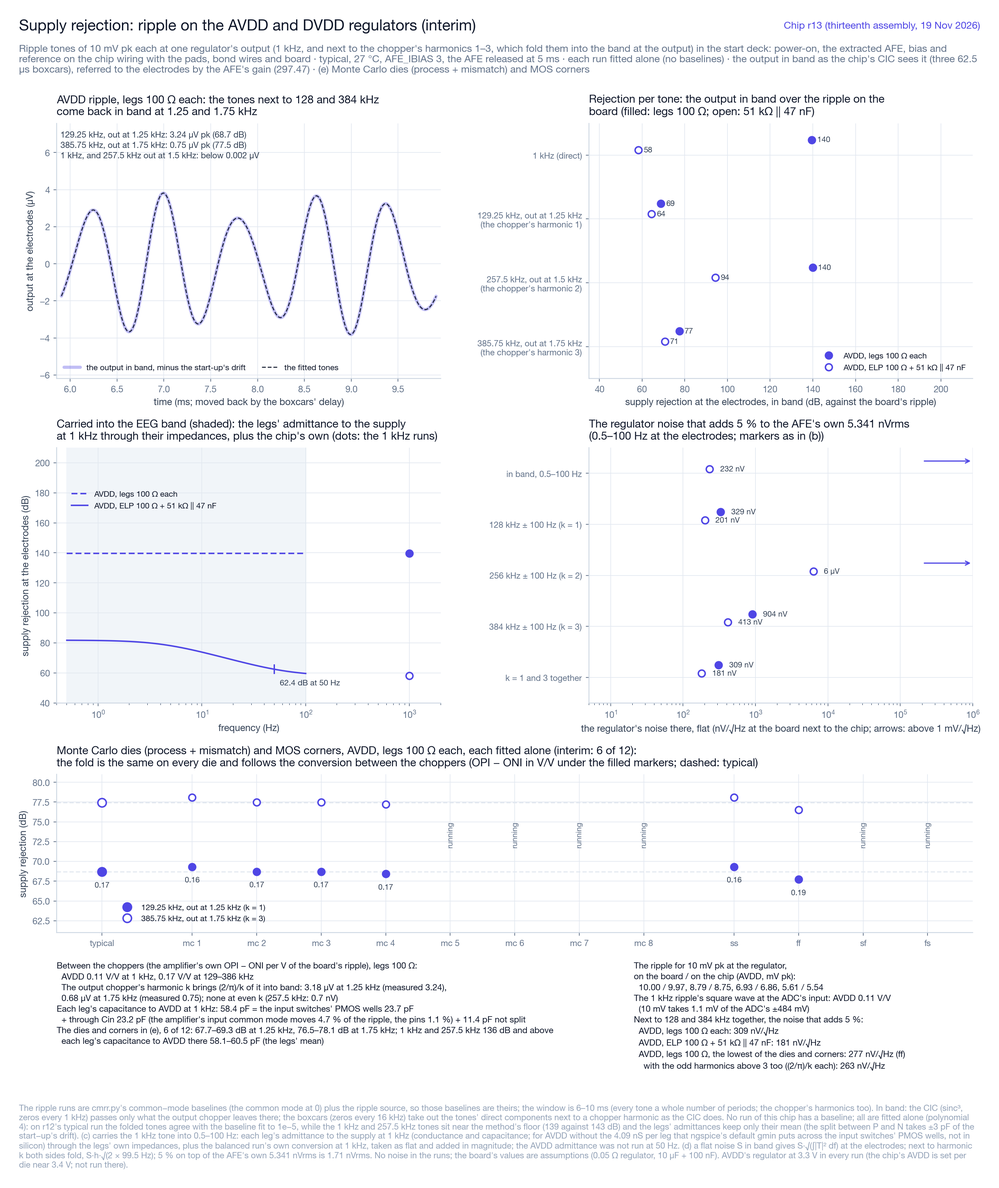
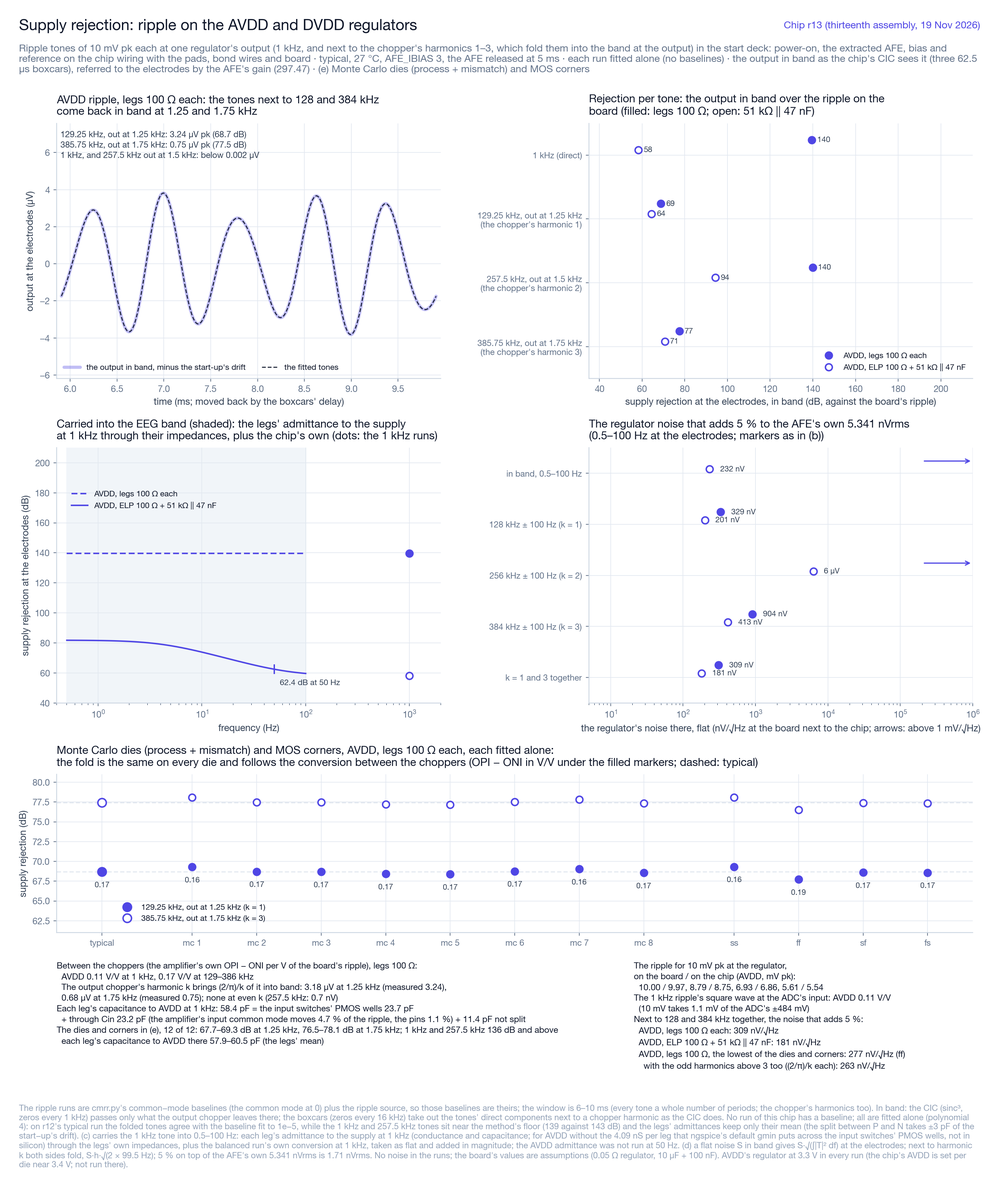
GF180 D7（11/20 未明）：13 回目のチップ（r13）の PSRR の全 14 本が完走し、図 46（r13）を最終の版とした。モンテカルロ 1〜8 で 128 kHz 近傍 68.4〜69.3 dB、384 kHz 近傍 77.2〜78.1 dB、MOS の角は ff 67.7 dB（最低）〜ss 69.3 dB（sf、fs 68.6 dB）。12 本の全てで r12（51.5〜53.2 dB）より 16 dB 以上改善し、ダイによる差は ±0.5 dB（配置で決まり、ミスマッチではない）。基板の AVDD に許せる雑音は 128／384 kHz 近傍で約 277 nV/√Hz（

diff --git a/first_tapeout_eeg/gf180/tapeout/viz/psrr_fig.py b/first_tapeout_eeg/gf180/tapeout/viz/psrr_fig.py
@@ -112,7 +112,10 @@ def main():
             if r["supply"] == "AVDD" and r["zp"] == BAL and r["zn"] == BAL
             and (r["seed"] is not None or r["corner"] != "typical")}
     nstat = len(SEEDS) + len(CORNERS)
-    interim = len(keys) < 4 or not all(runs[k]["base"] for k in keys) or len(stat) < nstat
+    if S.REV == "r13":     # r13's plan (runs/psrr_r13/run_psrr_r13.sh): AVDD only (afe_top changed; DVDD as r12), no baselines
+        interim = len(keys) < 2 or len(stat) < nstat
+    else:
+        interim = len(keys) < 4 or not all(runs[k]["base"] for k in keys) or len(stat) < nstat
     r0 = runs[keys[0]]
     tones = r0["tones"]
     based = all(runs[k]["base"] for k in keys)          # r13: no baselines were run, every run is fitted alone

diff --git a/first_tapeout_eeg/documentation/gf180_tapeout_tracker.md b/first_tapeout_eeg/documentation/gf180_tapeout_tracker.md
@@ -104,7 +104,7 @@
 | D4 | L3：AFE＋ADC＋DAC セル＋量子化器の短窓トランジスタ E2E。10/22：`gf180/tapeout/sim/e2e/e2e_deck.py`（AFE とそのクロックドライバ、ADC ブロック、バイアス生成、基準電圧のフィルタ。typical）で 70 µs を回した。16 kHz・フルスケールの正弦波で、AFE の出力（チョッパ周期の平均）の利得 268.9（周期平均の sinc を除くと約 276）、ADC まで含めた全体 282、量子化の残差 0.031（DAC の段の単位、ADC 単体と同じ）、AVDD 27.2 mA。窓が 16 kHz の 0.8 周期しかないので、利得の精度は数 %。AFE_RST を解除した瞬間の入力が Cin に残る起動時の現象を見つけた（AFE の文書）。1 本 45〜75 分。10/24：寄生込みの E2E（`gf180/tapeout/pex/pex_e2e.py`、`gf180_pex_20261023.md` の「寄生込みの E2E」、図 `documentation/figures/gf180/r9_20261029/e2e_pex/gf180_e2e_pex_r9_*.png`）。AFE と ADC を最終のチップ（B7、B4 の直し込み）の抽出に差し替え、Ch-A を横切る OUTP／OUTN のチップの配線（74／70 fF、片側 35.6 Ω）も足して、回路図と比べた。AFE の利得 291.4（回路図 291.5、配線込み 290.9）、全体 301.2〜301.9、AVDD 27.2 mA、O2 −33〜+34 mV で同等。量子化の残差は寄生込みで約 2 倍（0.017 → 0.032、帯域の外）。リセットの解除のあとの相 A／B の不釣り合い（寄生込みで 19 mV、時定数 143 µs で抜ける）で、ADC の入力の瞬時値は最大 297 mV（フルスケール 300 mV の内側）。仕様を外れるものはない。10/25：4 回目のチップ（電極の DC 電流の直しのあと）の抽出で回し直した。AFE の利得 291.3（配線込み 290.8）、全体 301.5〜302.5、量子化の残差 0.028／0.021。相 A／B の不釣り合いは 19 → −2.6 mV（その大きさは入力チョッパのクロックの結合の WP／WN の差で決まっていた）、ADC の入力の瞬時値は ±287 mV で回路図と同じ。10/26：5 回目のチップ（WN の配線抵抗の直しのあと）でも回し直し、ほぼ同じ（相 A／B −2.7 mV、量子化の残差 0.026／0.021、ADC の入力 ±287 mV）。10/26 夜：6 回目のチップ（Magic DRC の直しのあと）でも回し直し、ほぼ同じ（AFE の利得 291.3、相 A／B −2.7 mV、量子化の残差 0.025／0.021、ADC の入力 ±287 mV）。10/30：9 回目のチップ（ADC は C1・C2 を 1.25 倍にした 7 回目の抽出、AFE は 6 回目と同じ）で回し直した（`runs/e2e_r7/`。d4 と sch も今の回路図で）：AFE の利得 291.3（配線込み 290.8）、全体 299.8〜300.4、量子化の残差 0.016／0.017（回路図 0.017。寄生込みで増えなくなった）、相 A／B −2.7 mV、ADC の入力 ±287 mV。11/9：10 回目のチップ（量子化器のラッチのグラウンドを AVSS につないだ ADC の抽出）で 4 通りとも回し直し、すべて同じ値（`runs/e2e_r10/`。抽出は基板を AVSS とするので、前からラッチは AVSS につながった形で計算されていた）。11/13：11 回目と 12 回目の抽出でも回した（`runs/e2e_r11/`、`runs/e2e_r12/`）。寄生込みは AFE の利得 291.4、全体 299.8／300.4、残差 0.019／0.019。チップの配線込み（pexchip。OUTP／OUTN が約 20 Ω 長くなった）は 290.6、299.9／299.5、0.018／0.014 で、r10 と同じ大きさ。残り：コーナー | 11/17 | ▶（typical ✅、寄生込み ✅） |
 | D5 | 今回 rev の構成決定レビュー。判断が要るもの：ADC のポリ抵抗のフリッカ（11/12、D7、図 33。PDK の大きさを今の電流でとると、フルスケールで 16.26 bit）。11/12 に直す案を調べた（`gf180_realistic_eval_20261028.md` の「RIN と DAC1 を ppolyf_u に替える案」、図 `plan_20261112`、設計はまだ変えていない）：1 単位（300 kΩ）を幅 0.8 µm の ppolyf_u 2 本の直列にすると、雑音 0.069 倍で、フルスケールでも 16.57 bit。抵抗の間を 0.4 µm にし、OTA1 と第 2 段を東へ 28.9 µm ずらせば ADC に収まる（外形は同じ）。角は今と同じ ±20 %、温度による変化は約 1/10。DAC1 は偶成分が要求の 1/90 以下のまま、出力の電位差への感度が 1.59 倍（ループの HD3 約 −129 dBc）、BRK の時間は同じ。R21 も替えるとよい。替えるなら ADC のレイアウト、DRC／LVS、precheck、PEX、DAC1 とループの確認、通し（約 54 時間）をやり直す（1 週間ほど）。替えないなら、フルスケールの 16.26 bit を予測として明記し、チップで測る。勧めは替えるほう（ENOB はフルスケールに近い正弦波で測るため）。**11/12 にユーザーが替えると決めた**（RIN と DAC1、勧めのとおり R21 も ppolyf_u に。11 回目のチップで作業する。走っている 10 回目の通しは r10 の抽出だけを読むので、止めずに進める）。11/12〜13：11 回目のチップで替えた（E4）。作ったままの抵抗でフリッカを計算し直し、フルスケールで 0.29 nVrms、16.57 bit（入力が小さいときと同じ。`runs/adc_flicker_r11`）。11/13：外から指摘のあった、敏感な網の下を通るクロックとデータの線を、ユーザーの判断で 12 回目で直した（E3、E4）。AFE の通路の覆いで電極の DC 電流が ±1.56 → ±1.71 nA になるが、ユーザーの判断で覆いは残した。**発注の候補は r12**（E8）。**11/18 の構成決定（ユーザーの判断）**：チップは r12 のまま。AVDD は調整できるレギュレータでダイごとに合わせる（F2）。DAC で打ち消したオフセットの電流のためにチップは直さず、限界として記録する（D7、勧めに対する返事「go」）。**11/19 の判断（ユーザー）**：AVDD の 128 kHz の奇数倍のそばの PSRR のために、r13 で増幅器の入力 INN の配線を直す（D7、勧めのとおり。返事「r13 で直す」）。発注の候補は、r13 が DRC、LVS、precheck と性能の回し直しを通るまで r12 のまま | 11/19 | ▶ |
 | D6 | L4：重要ブロックの PEX 確認（チョッパの寄生結合、AFE 入力節点、積分器・DAC）。10/23：magic で寄生容量を抽出し（ネット名は KLayout の LVS の結果で回路図に対応づけ、MIM の基板容量は下の板へ補正）、入力の信号経路の配線抵抗は KLayout の R 抽出で求めた。AFE、ADC のループ、DAC1、OTA1 のチョッパを、回路図・抽出した素子だけ・寄生込みの 3 つで比べた（`gf180/tapeout/pex/`、`documentation/gf180_pex_20261023.md`）。寄生容量だけなら差は小さい（AFE の雑音 4.64 → 4.70 nVrms、利得 −0.2 %、HD3 −116 dBc、ADC のループの利得・CM・電流、積分器の整定は同等）。**仕様を外れるもの 4 つ**：① 入力の信号経路の配線抵抗が片側 76／119 Ω（コアの入力対のゲート配線 72／115、Cin の下の板の網 4.0、チョッパの EP／EN 0.35）で、AFE の雑音 19.1 nVrms、約 14.8 bit。② DAC1 の偶成分 0.47〜0.69 fC（要求 0.008 fC）で SNDR 約 70 dB。③ DC 経路のスイッチの CIB2 の結合の非対称で AFE の出力に 39 mV p-p のリップル。④ 量子化器の入力の結合の非対称で判定が平均 +2.4 LSB ずれる。原因と直し方（目標値つき）は文書の「直し方」。直したあと同じ流れで確かめる。10/24：4 件をレイアウトで直し（E3、E4）、チップを組み直して抽出と比較を回し直した（文書の「直したあとの確認」）。4 件とも仕様の内側に戻った：配線抵抗は片側 0.634／0.676 Ω（チップで測定。Cin の下の Metal3 の面は Tesselation）、DAC1 の偶成分 −0.0014 fC（123 dB）、リップル 3.62 mV p-p、量子化器の入力の結合はそろい、ループの残差 0.027。AFE の雑音は寄生込みで 4.81 nVrms、配線抵抗込みで 5.05 nVrms、総残差 6.05〜6.07 nVrms（16.45〜16.46 bit）で、16.50 bit に 0.04〜0.05 bit 足りない（片側 0.35 Ω まで下げるには AFE の配置の変更が要り、今回 rev はこの形）。抽出の補正を直した：magic が MIM の上の板に付ける、下の導体（Cin の下の Metal3 の面など）への容量を下の板へ移す（`pex.py` の `mim_shield`。AFE で WP–INP の見かけの 21.3 pF を消した）。**新しく 1 件が仕様を外れた**（直し方 1、2 の副作用）：INP と増幅器の出力 ONI／OPI の結合（P 側だけ 617／526 fF。コアの上端で INP を Cin のバスへつなぐ Metal5 の下を ONI／OPI の Metal4 が通る）で、フルスケールの HD2 −70 dBc（仕様 −111 dBc 以下）、利得 −2 % 前後。抽出からこの結合だけを除くと HD2 −114 dBc に戻る。E3 で直した（幹線を移して遮蔽、出力部の P 側を N 側の鏡映に。4 つの結合は 9 fF 以下、HD2〜HD5 −113.8／−117.2／−120.9／−137.7 dBc、利得は回路図に戻った）。リップルは 4.00 mV p-p（目標の境、クロックの線と出力の結合の P／N の差。帯域の外なので受け入れ）。チップを組み直した（E7）。2 回目までの歪みの確認は 2 kHz だけで、帯域内の低い周波数の HD2（DC 経路が 1 本で −87 dBc）は B7 の確認で見つかり、DC 経路を対称にして直した（0cb0fff4）。B7 と B4 の直しを入れた最終のチップ（3 回目、10/24）で確かめ直した：帯域内のフルスケールの HD2〜HD5 −132.7／−120.4／−160.9／−144.5 dBc、リップル 2.02 mV p-p、AFE の雑音 4.81 nVrms（配線抵抗込み 5.05）、配線抵抗は片側 0.634／0.676 Ω で変わらず。チップは DRC 違反なし、LVS 一致、穴埋めのあとの全 DRC も違反なし、precheck 通過。**10/25：信号がなくても電極に流れる DC 電流を調べて直した**（文書の「電極に流れる DC 電流（10/25）」）。3 回目の抽出の I_ELP −40.0／I_ELN +33.3 nA（`viz_data.py zin`）のうち、同相の −3.4 nA ずつは ngspice の GMIN による見かけ（抽出の入力 TG が PMOS M=1024・NMOS M=512 の 1 素子ずつで、接合ごとの GMIN が打ち消さない）で、実際は差動 ±36.6 nA。入力チョッパのゲートのクロックの結合が WP と WN で違い（チョッパの中のストラップの並びで WN だけが CIA／NCIA のピンの隣、ゲートの折り返しが WN の面の下、上端の WP の板、OFPH の西の線が WN の面の下）、交換器が電荷を一方の電極から他方へ運んでいた。電極の要求を 1 本あたり 1 nA 以下（1 MΩ で 1 mV）とし、1 MΩ で片側 37 mV（16.5 bit の前提の電極オフセット数 mV を外れる）なので不適合と判断して、E3 のレイアウトで直した：差動 ±1.65 nA（22 分の 1、ポンプに効く結合の差 −90.6 → +0.6 fF）、チップの配線を足して ±1.35 nA。残りはコアの INP／INN の寄生の非対称による（抽出で INP／INN を対称にすると差動 +0.5 nA）。今回 rev はこの値で受け入れる（1 MΩ で片側 1.65 mV、範囲 1 の内側）。雑音 4.811 nVrms、利得 297.89 は変わらない。副作用：チョッパの下の WN の面からゲートのレーンの通路を外したため、WN の W の配線抵抗が 0.339 → 0.570 Ω（通路を渡るのが Cin_N のバス 5 µm だけ）。配線抵抗込みの雑音 5.048 → 5.086 nVrms、総残差 6.05 → 6.08 nVrms（16.46 → 16.45 bit）。直すなら通路の上に WN の Metal5 だけを戻す（`gf180_pex_20261023.md`）。10/25 午後：可視化の図（`gf180_viz_20261024.md`）と、配線抵抗・歪み・寄生込みの E2E を 4 回目のチップで測り直した：帯域内の静的な HD2〜HD5 −165.8／−120.3／−148.9／−145.5 dBc、2 kHz −134.1／−118.2／−143.9／−141.6 dBc（仕様の内側）。10/25 夜：通路の上に WN の Metal5 を戻して直した（5 回目のチップ、E3）：WN の W 0.354 Ω、配線抵抗は両側 1.32 Ω（1.47 nVrms）、配線抵抗込みの雑音 5.049 nVrms、総残差 6.05〜6.07 nVrms（16.45〜16.46 bit、10/24 と同じ）。ポンプに効く結合の差 +0.61 → +0.80 fF、電極の DC 電流 ±1.56 nA、利得 297.89、リップル 2.37 mV p-p。10/26 朝：歪み、寄生込みの E2E、`viz_data.py` の AFE の組も 5 回目の抽出で回し直した（4 回目とほぼ同じ）：帯域内の静的な HD2〜HD5 −167.2／−120.3／−149.0／−145.5 dBc、2 kHz −134.2／−118.1／−143.0／−141.5 dBc、E2E の AFE の利得 291.3、相 A／B −2.7 mV、ADC の入力 ±287 mV。可視化の図 10、16〜24 も描き直した。10/26（6 回目、Magic DRC の直し：抵抗のコンタクトと MIM の Via4）：AFE と DAC1 を抽出し直して確かめた。雑音 4.811 nVrms（配線抵抗込み 5.050）、利得 297.89、リップル 2.37 mV p-p、電極の DC 電流 −1.55／+1.57 nA、DAC1 の偶成分 −0.00135／−0.00125 fC で 5 回目と同じ。配線抵抗の W は Cin の Via4 の分で 0.347／0.357 Ω（+3〜4 mΩ、`gf180_pex_20261023.md`）。10/26 夜：歪み（帯域内の静的な HD2〜HD5 −164.0／−120.3／−148.9／−146.0 dBc、2 kHz −133.9／−118.1／−141.4／−141.1 dBc）、寄生込みの E2E、`viz_data.py` の組、ADC のループ（利得 1.0040、残差 0.0318、判定が理想のしきい値と合うフレーム 91.2 %。3 回目の抽出からの差は 80 フレームの窓の揺れの範囲）、DAC1 の偶成分の行動モデル（123.0 dB）も 6 回目の抽出で回し直した。どれも 5 回目（ADC は 3 回目）とほぼ同じ。可視化の図は版ごとのフォルダ（`documentation/figures/gf180/r6_20261026/`）に全部描き直し、KLayout で描いたレイアウトの図 9 枚を足した。10/30：9 回目のチップ（今の版）の図を `documentation/figures/gf180/r9_20261029/` に全部描き直した。ADC は 7 回目の抽出（ループの利得 0.9974、残差 0.0202、判定 95.0 %、DAC1 の偶成分の行動モデル 123.0 dB）、AFE は 6 回目と同じ抽出、チップの配線を通す結果（雑音、入力経路の配線抵抗、起動、OUTP／OUTN の窓）は 9 回目で取り直した | 10/30 | ✅ |
-| D7 | 実際に近い条件での立ち上がりと性能（10/27〜、`gf180_realistic_eval_20261028.md`）。電源投入から（電源のランプ、`uic`）、RTL のリセットの順序、パッドリング、基板（仮定）とボンディングワイヤ、チップの配線（`pex_chipnets.py`：パッドセル、AVDD／AVSS の網とデカップリング、ブロックの間の配線と結合）、抽出した afe_top／eeg_bias／eeg_ref、モンテカルロ（工程と素子ごと。MIM と抵抗の素子ごとは仮の係数）、AVDD ±5 %（`gf180/tapeout/pex/afe_startup.py`）。雑音はチップの実際の動作点で測る（`afe_chip_noise.py`）。ADC を含めた電源投入からの通しは `e2e_startup.py`。10/28：雑音は上の予算の表のとおり（code 3 で 16.40 bit）。電極 0 V の立ち上がり（code 2、typical・±5 %・モンテカルロ 10）は、解除の 1 周期で −0.08〜−0.40 mV 振れ、7 µs 以内に −0.073 ± 0.002 mV（電極換算 −0.24 µV）に落ち着く。バイアスは電源投入から 0.91〜0.95 ms で 1 % 以内。通しのデッキは電源投入から AFE の解除後 50 µs まで回り、全体の利得 298.3。10/28〜29：AFE_IBIAS code 3 の書き込みを入れたモンテカルロ 30 と ±5 %、電極の DC オフセット、正弦波、VCM の容量 100 nF／1 µF、ADC 側を実際の条件で回した（ADC の C1・C2 を 1.25 倍にした）。10/31：9 回目のチップの配線で起動を回し直した。モンテカルロ 30 と ±5 % はすべて最後まで回り、解除後の出力は −0.075 ± 0.006 mV、0.1 mV まで 12 µs 以内、バイアスは 0.89〜0.97 ms で 1 % 以内で、6 回目と実質同じ。電極の DC オフセットは 300 mV まで打ち消せ、段の大きさは抽出のビットの重みで説明できる（どの範囲でも単調、残差の最大は範囲 1 で 153 µV、範囲 2 以上で 166 µV）。11/2：電源投入から CIC の出力までの通し（r6、r7、10 ms）が最後まで回った。有効な 3 サンプルはどれも RTL とビット一致し、電極から DATA までの利得は 306.6（r6 と r7 のサンプルの差は 7 LSB 以内）。11/8〜9：デジタル側（9 個の bi_24t、ブロックの電源電流、チップの DVDD／DVSS）を、9 回目の通しのチャンク 14 に入れて比べた（`digital_noise.py`）。リングの揺れは 18 → 59 mV p-p、ADC のデジタルの電源は 417 mV p-p。結合で AFE の出力にできる一定のずれは電極換算 0.21 nV で、DATA の約 1 LSB、計算の差（0.13 nV）と同じ大きさ。ADC の符号は 48 フレームとも一致した。この結合は MCLK に同期するので、一定のずれにしかならない。SPI の読み出しでも符号は一致し、周期ごとの差は 0.2 nV rms 以下。11/9：RAW の出力を動かす組（b3）も最後まで回った。AFE の入力の揺れは b1 の約 2 倍（同相 15.2 mV p-p、差動 16.7 µV p-p）になるが、出力の一定のずれは −0.11 nV、周期ごとの残りは 0.11 nV rms で、符号は 48 フレームとも一致した（図 31、`documentation/figures/gf180/r10_20261109/viz/`）。11/11：9 回目のチップの配線での通しも最後まで回った。有効な 3 サンプルはどれも RTL とビット一致し、7 回目より 0.064 % 大きい。差はすべて AFE の利得の差で、AFE の AVSS の持ち上がりが小さくなって AFE の電流が約 1 % 増えたため。ADC 側は 7 回目と同じだった。11/11：図 31 のデッキの ADC を 10 回目の抽出に替えて、5 本を回し直した（b2 は区切り点の近さで一度止まり、MISO を 0.125 ns ずらして回し直した）。5 本とも 48 フレームの ADC の符号が 7 回目の抽出のときと同じだった。結合の一定のずれは電極換算 0.30 nV で、計算の差（0.27 nV）と同じ大きさ。SPI の読み出しと RAW の出力でも、周期ごとの残りは 0.3 nV rms 以下。図 31 を描き直した。11/13：10 回目の通しも最後まで回った。有効な 3 サンプルはどれも RTL とビット一致し、9 回目との差は +4、−1、−3 LSB（1 本の中の続くサンプルどうしの違いと同じ大きさ）、電源と基準は 9 回目と同じ。11 回目の通しは、12 回目に替えたのでチャンク 4 で止めた。11/13：11 回目と 12 回目のチップの配線で雑音を回し直し、9 回目と 0.001 nVrms 以内で同じ（AFE_IBIAS 3 で typical 5.327 nVrms、モンテカルロ 30 の最悪 5.498 nVrms）。11/15：12 回目の起動のバッチは 50 本のうち 32 本が済み（モンテカルロ 18 本）、9 回目と同じ値（バイアス 0.91〜0.95 ms、解除から 0.1 mV まで 9 µs 以内、出力 −0.099 ± 0.006 mV、電極のオフセットの残差は出力で 0.06 mV 以内で同じ）。電源投入をプロセスの角 4 つ × AVDD ±5 % と電源の立ち上がり 10 µs〜100 ms で回し、20 本とも起動した（起動回路は AVDD 0.61〜1.03 V で切れる。図 37、`powerup_checks.py`）。基板への要求に、AVDD と外の基準を DVDD より先に上げないこと（アナログのパッドの ESD ダイオードが DVDD のリングへ向く）と、解除を電源が上がりきってから数えることを足した。11/16：12 回目の起動のバッチ 50 本と通し（71 時間）が終わった。通しの有効な 3 サンプルはどれも RTL とビット一致し、10 回目より −0.175 %（ADC の基準電圧 +0.057 %、AFE の利得 −0.116 %）。角での AFE の解除（図 38）：どの角でも動き出すが、BOOST_TRIM がリセット値 4/4 のままだと、フルスケールの HD3 が ss −97.6、sf −96.8、fs −106.1 dBc で要求（−111 dBc）に届かない。AVDD −5 % ではどのトリムでも届かない。AVDD を上げるとよくなり、3.40 V と角ごとのトリムで 5 つの角が届く。チップの窓は約 3.394〜3.456 V（図 41）。ADC は ADC の電源 3.39 V でも 3.245 V と同じに動く。ただし、typical を地図の 2/2 にすると、AVDD を上げた分だけ AFE の雑音が増える（3.45 V で 5.73 nVrms、予算で 16.47 bit。BTRIM_P を 4 以上にすれば平ら。図 42）。BTRIM_P 4 でも HD3 は届く：チップの HD3 は、typical 4/2 が 3.40 V で −117.0 dBc（2/2 の −116.8 と同じ）、リセット値の 4/4 が 3.40 V で −115.6、3.45 V で −116.4 dBc（要求に 4.6 dB 以上の余裕）。typical のトリムは 4/2 を勧める（雑音は平らで、予算は 3.45 V でも 16.56 bit。窓の上の端は ff 8/2 の約 3.460 V になる）。電極のオフセットで飽和した最初の電源投入（図 39）：書いても増幅器は出力チョッパの後ろで飽和したまま残るので、ホストは書くたびに AFE_RST を 100 µs 上げる（typical と ss で確かめた。ss では typical の M では残差が大きく、M の探索がもう 1 回要る）。パルスなしでも 300 mV は書いてから 2.82 ms で ADC の範囲に戻るが、11 ms でも出力は図 27 より入力換算約 −31 µV ずれ、入力のコモンモード（0.18 V 低い）と一緒に時定数約 47 ms で抜けていく（11/17、11 ms まで回した。パルスなら 0.5 µs で範囲に入り、2.5 ms 後に +0.7 µV）。ADC は過負荷から自分で戻る（最大 0.22 ms、図 40）。デジタル側（図 31）を 12 回目の通しのチャンク 14 で回し直した（4 本、23 時 44 分に済んだ）：48 フレームの ADC の符号はどの組でも一致し、結合の一定のずれは電極換算 0.02 nV（計算の差 0.25 nV より小さい）、SPI の読み出しは +0.42 nV、RAW の出力は +0.64 nV（周期ごとの残り 0.27 nV rms 以下）で、10 回目と同じ大きさ。リングと電源の揺れも 10 回目と同じ。図は 12 回目の 42 枚がそろい（39 は 11/17 に仕上げた）、11/17 に 43 を足した。11/17：PDK にない係数への余裕（図 43）：DAC1 の素子のばらつきを仮の係数の 8 倍にしても ENOB は変わらない（30 ダイの平均 16.60 bit）。入力抵抗の電圧係数は vc2 が約 300 ppm/V² まで 16.5 bit に届く。オフセット DAC は MIM のばらつき 4 倍まで単調で、運転中の窓の内側。チップを直す必要はない。11/17：同相の除去（CMRR）と電極の不釣り合い（`afe_startup.py` に体の同相と電極のインピーダンスを足し、`cmrr.py` で解析。図 44 は途中の版）。1 kHz で、釣り合った電極では 105.4 dB（チップ自身の分）、ELP に 51 kΩ ∥ 47 nF では 50.7 dB で、ほぼ全部が脚の電流が電極のインピーダンスを流れる分。脚 1 本から見た同相は 18.6 nS ∥ 138.5 pF（Cin を通る分 63.6 pF、入力チョッパのスイッチ 65.2 pF、パッドなど 9.7 pF。コンダクタンスのうち 6.1 nS は ngspice の既定の gmin の見かけ）。朝の見込み（−64 dB）はこの容量を落としていて、50 Hz では 54.3〜54.7 dB（100 mV pk の同相で電極換算 184〜193 µV pk）の見込み。11/18：基準（1 時 45 分に済んだ）を差し引いて当てはめ直しても同じ（105.4 dB、50.7 dB）。解除までは脚 1 本の同相が約 795 pF で、不釣り合いの 47 nF に残る電荷が時定数 2.4 ms で窓に入るので、当てはめに指数を足した。AFE_RST を上げているあいだは、チョッパが動いているとピンの差動が約 5.4 kΩ（Cin のスイッチト・キャパシタ。Cpf の打ち消しが働かない）になり、電極の DC オフセットが電極のコンデンサを充電する。51 kΩ ∥ 47 nF と 300 mV では、11/16 の手順（書くたびに 100 µs）で AFE が書いてから約 12 ms 飽和する見込み。図 39 は電極 100 Ω だったので出なかった。AFE_RST と一緒に CHOP_EN（同じ CONTROL）を下げる手順を、2 時 1 分から回して確かめている（`afe_saturation.py --zp --chop-hold`）。11/18：50 Hz の 2 本も 5 時 40 分ごろ 26 ms まで回った（1 周期）。51 kΩ ∥ 47 nF で 54.2 dB（100 mV pk の同相で電極換算 194 µV pk、フルスケールの 21 %。gmin の見かけを除くと 54.6 dB）、釣り合いで 151 dB で、見込みどおり。出力はシミュレーションのピンの差動と 0.04 % で合い（50 Hz の利得 297.58）、ほぼ全部が電極の側。脚のコンダクタンスのうち 12.2 nS は、Cin を通して見える入力のコモンモードの DC 経路（時定数 47 ms）。1 周期の当てはめでは、47 nF の指数をチップの側（脚の電流、体）にも入れると脚のアドミタンスが最大 30 % 動くので、出力とピンだけに入れた（当てはめを変えても 54.14〜54.26 dB）。CMRR のためにチップを直す必要はない。図 44 を仕上げた。11/18 の朝：DAC で打ち消した電極のオフセットには、解除のあとも約 5.4 kΩ がかかることが分かった（図 27 のランで 10〜300 mV とも 5.36〜5.44 kΩ。Cin のスイッチト・キャパシタで、Cpf は出力に出ている分しか補わない）。電極にオフセット / 5.4 kΩ（30 mV で 5.4 µA、300 mV で 54 µA）の DC 電流が流れ、10/23 の要求（電極 1 本 1 nA 以下）を DAC の 1 段（56 nA）から外れる。電極に抵抗 R_e があると、ピンに届くオフセットは 5.4 kΩ / (5.4 kΩ + R_e) 倍（51 kΩ で 300 → 28.4 mV）。未明の見立て（解除のあとは MΩ、書いてから約 12 ms 飽和）はこの点で誤り。D（電極 100 Ω、CHOP_EN を下げる）は、解除のあと入力のコモンモードがはじめから釣り合いにあり、図 27 より出力が電極換算 2.9 µV 釣り合いに近い。RTL のリセット値は変えないことを勧める。この DC 電流のために今回 rev でチップを直すことはせず、限界として記録する（11/18、朝の勧めに対する返事「go」）。B（51 kΩ ∥ 47 nF、M 983、CHOP_EN を下げる。6 時 21 分に 10 ms まで回った）：解除のときピンは 116 mV で、M 983（295.8 mV）に対して AFE は逆向きに飽和したまま残り、チップがピンを −349 mV へ引く（時定数 0.57 ms、10 ms で −348 mV、電極に 12.7 µA、ADC の入力 −1.80 V）。電極 100 Ω では同じ書き込みで解除と同時に範囲に入る。合わない M を残したまま待たないこと、パルスのあいだもチョッパを動かすことを、手順に書く（図 45、途中の版）。E、F（M 94、パルス 1 ms と 100 µs。8 時 47 分から回し直し、11 時 58 分に 10 ms まで回った）は、どちらも増幅器の入力 +5.0 mV（ADC の入力 +1.0 V）に落ち着き、範囲に戻らなかった。パルスの長さは行き着く先を変えず、行き着く先は M で決まる。M 94 は、ピンの単純な平均（28.4 mV）に合わせたもので、増幅器が取り込むチョッパの切り替えの直前の値（約 1.3 mV 高い）に合っていなかった。読み（見立て）：解除のあとは DAC で打ち消した分だけが電流を流す（M × 0.301 mV / 5.56 kΩ）ので、電極の電圧降下が M で動き、M の 1 段は増幅器の入力で 0.301 mV × (1 + R_e / 5.56 kΩ)、51 kΩ で約 3 mV（ADC の範囲 ±1.63 mV とほぼ同じ）。最良の M でも最大 ±1.5 mV が残り、約 55 kΩ（R_sc 5.67 kΩ）を超えると範囲に入らないオフセットが出る。原因は DAC で打ち消したオフセットの電流と同じ。G（M 98、99、100、パルス 1 ms。15 時 42〜46 分に 10 ms まで回った）で確かめた：範囲に入るのは M 100 だけで、ホストの読み（ADC の入力 / 297.5）は M 100 で −0.79 mV、M 99 で +1.63 mV（範囲の端）、M 98 で +2.55 mV、M 94 で +3.33 mV に落ち着く。範囲の中ではチップは電極から見て電流源（M × 0.301 mV / 5.67 kΩ。電極は 51 kΩ × 47 nF = 2.4 ms で動く）で、1 段は 3.0 mV（M 99 → 100 は範囲の端の圧縮で 2.42 mV）。範囲の外では Cpf が残差を補いきれず、チップが電極を引き戻す（時定数 0.35〜0.40 ms）。電極の抵抗の変化への感度は電流そのもの（5.3 µV/Ω、範囲の中心から 0.3 kΩ で範囲を出る）で、朝に書いた 0.50 µV/Ω（チップを抵抗とみた値）の約 10 倍だった。アクティブ電極なら問題は出ない。チップを直すかを、夕方にユーザーに判断をあおいでいる。A は B から読めるので回し直さない。11/18 の構成決定で、AVDD はダイごとに合わせると決めた（ユーザーの判断。トリムも試験でダイごとに、F2、F4）。11/18 の夜：同相の釣り合いの値を帯域内（チップの CIC が見る値、`cmrr.py` の inband）で測り直した。1 kHz の 105.4 dB（0.52 µV）は、チョッパの間で起きる変換（出力のチョッパで ADC の入力に矩形波として出る。同相 97.5 mV pk で 104.7 mV pk、50 Hz では 99.95 mV pk で 7.1 mV）を、チョッパ周期の平均が折り返した見かけで、帯域内では 148 dB（50 Hz は 147 dB）。不釣り合いの値は 0.13 % 以内で同じで、結論は変わらない。図 44 を直した。実際のレギュレータの PSRR は、21 時 44 分から AVDD と DVDD のリップル（電極は釣り合いと 51 kΩ ∥ 47 nF）を回している（`afe_startup.py --rip`、`psrr.py`）。11/19：PSRR の typical（図 46）。低い周波数のリップルはチョッパで除かれる（釣り合いで AVDD の 1 kHz 139 dB、DVDD 197 dB）。AVDD の 128 kHz の奇数倍のそばは、チョッパの間の変換（増幅器の出力に 1.10 V/V）が出力のチョッパで帯域に戻り、52.4 dB（384 kHz のそばは 61.2 dB、偶数倍は 132 dB）。51 kΩ ∥ 47 nF では帯域内の AVDD が 50 Hz で 62.5 dB（脚 1 本の AVDD への 59 pF：入力スイッチのウェル 24、Cin を通る分 24、残り 11）。基板への要求を F2 の (4) に書いた。モンテカルロ 8 と MOS の角 4 を 1 時 8 分〜7 時 57 分に回した。8 ダイは 128 kHz のそばで 52.1〜52.8 dB、チョッパの間の変換 1.05〜1.13 V/V で typical と同じ（ミスマッチではない）。角は ff が 51.5 dB（1.23 V/V）、ss が 53.2 dB（0.99 V/V）。F2 の (4) を ff から約 40 nV/√Hz に決め直した。変換の出どころ：抽出では INN が INP より AVDD に 1.96 pF、VBP に 0.53 pF、BLP に 0.16 pF 多い。この容量を INP にそろえた診断（A：AVDD、B：VBP と BLP も。設計の変更ではない）で、変換は 1.10 → 0.241 → 0.058 V/V、128 kHz のそばは 52.4 → 65.6 → 78.0 dB（図 47）。変換の約 95 % は INN の余分な配線の容量から来る。場所は増幅器のコアの上で、INN は Metal3 と Metal4、INP は Metal5 を通る（INN の Metal4 が AVDD の n-well の上に 97,000 µm²、VBP のゲートの上に 38,000 µm²）。角で動くのは、PDK の角が MIM の角（ff 0.9 倍、ss 1.1 倍）も変え、変換が MIM の Cf に反比例するため（AFE の利得は 1 % 以内）。ELP に 51 kΩ ∥ 47 nF でそろえた C（12 時 34 分）でも、128 kHz のそばは 47.5 → 74.6 dB、384 kHz のそばは 53.6 → 82.5 dB、許せる雑音は 26 → 605 nV/√Hz（1 kHz の 58.1 dB は、ピンで脚の不釣り合いから入る分なので変わらない）。**11/19 の 13 時に、ユーザーが r13 で INN の配線を直すと決めた。** 直し方を選ぶため、INN の余分を INP に足した診断 D（INP から AVDD に +1.96 pF、VBP に +0.53 pF、BLP に +0.16 pF）を 13 時 5 分からターミナルのタブで実行し、17 時 45 分に完了。128 kHz 近傍 77.7 dB、変換 0.060 V/V で B（78.0 dB、0.058 V/V）と同等であり、変換は加算点間の容量の差のみで決まることを確認（r13 の修正方針と整合。図 47 に D を追加）。BLP は PMOS のブースタのバイアス（AVDD の側）で、INP の相手は同じ BLP（前は BLN と書いていたが、どちらも 0 fF で A〜C は同じ）。**11/19 夜：r13 の PSRR の最初の 4 本（typical の釣り合いと ELP に 51 kΩ ∥ 47 nF、ff、ss。afe_top を r13 の抽出に置換、基準のランなしで単独の当てはめ）。** 128 kHz 近傍は typical 68.7 dB（r12 52.4）、ff 67.7 dB（51.5）、ss 69.3 dB（53.2）、51 kΩ ∥ 47 nF で 64.4 dB（47.5）。チョッパ間の変換は 0.169 V/V（r12 1.10）で、残る差 256 fF と診断 B・D の残り（0.058 V/V）からの見込みと整合。128 kHz と 384 kHz の近傍に許せる AVDD の雑音は ff で約 260 nV/√Hz（r12 約 40）。帯域内（51 kΩ ∥ 47 nF で 50 Hz 62.4 dB）は電極の不釣り合いで決まり変化なし。11/19 21 時 49 分：モンテカルロ 1〜4 は 128 kHz 近傍 68.4〜69.3 dB、384 kHz 近傍 77.2〜78.1 dB、変換 0.157〜0.174 V/V（r12 の 8 ダイは 52.1〜52.8 dB）でダイ依存性なし、許せる雑音の最小は ff のまま（277 nV/√Hz）。モンテカルロ 5〜8 と sf、fs は実行中（図 46（r13、途中の版、12 本中 6 本）） | 11/19 | ▶ |
+| D7 | 実際に近い条件での立ち上がりと性能（10/27〜、`gf180_realistic_eval_20261028.md`）。電源投入から（電源のランプ、`uic`）、RTL のリセットの順序、パッドリング、基板（仮定）とボンディングワイヤ、チップの配線（`pex_chipnets.py`：パッドセル、AVDD／AVSS の網とデカップリング、ブロックの間の配線と結合）、抽出した afe_top／eeg_bias／eeg_ref、モンテカルロ（工程と素子ごと。MIM と抵抗の素子ごとは仮の係数）、AVDD ±5 %（`gf180/tapeout/pex/afe_startup.py`）。雑音はチップの実際の動作点で測る（`afe_chip_noise.py`）。ADC を含めた電源投入からの通しは `e2e_startup.py`。10/28：雑音は上の予算の表のとおり（code 3 で 16.40 bit）。電極 0 V の立ち上がり（code 2、typical・±5 %・モンテカルロ 10）は、解除の 1 周期で −0.08〜−0.40 mV 振れ、7 µs 以内に −0.073 ± 0.002 mV（電極換算 −0.24 µV）に落ち着く。バイアスは電源投入から 0.91〜0.95 ms で 1 % 以内。通しのデッキは電源投入から AFE の解除後 50 µs まで回り、全体の利得 298.3。10/28〜29：AFE_IBIAS code 3 の書き込みを入れたモンテカルロ 30 と ±5 %、電極の DC オフセット、正弦波、VCM の容量 100 nF／1 µF、ADC 側を実際の条件で回した（ADC の C1・C2 を 1.25 倍にした）。10/31：9 回目のチップの配線で起動を回し直した。モンテカルロ 30 と ±5 % はすべて最後まで回り、解除後の出力は −0.075 ± 0.006 mV、0.1 mV まで 12 µs 以内、バイアスは 0.89〜0.97 ms で 1 % 以内で、6 回目と実質同じ。電極の DC オフセットは 300 mV まで打ち消せ、段の大きさは抽出のビットの重みで説明できる（どの範囲でも単調、残差の最大は範囲 1 で 153 µV、範囲 2 以上で 166 µV）。11/2：電源投入から CIC の出力までの通し（r6、r7、10 ms）が最後まで回った。有効な 3 サンプルはどれも RTL とビット一致し、電極から DATA までの利得は 306.6（r6 と r7 のサンプルの差は 7 LSB 以内）。11/8〜9：デジタル側（9 個の bi_24t、ブロックの電源電流、チップの DVDD／DVSS）を、9 回目の通しのチャンク 14 に入れて比べた（`digital_noise.py`）。リングの揺れは 18 → 59 mV p-p、ADC のデジタルの電源は 417 mV p-p。結合で AFE の出力にできる一定のずれは電極換算 0.21 nV で、DATA の約 1 LSB、計算の差（0.13 nV）と同じ大きさ。ADC の符号は 48 フレームとも一致した。この結合は MCLK に同期するので、一定のずれにしかならない。SPI の読み出しでも符号は一致し、周期ごとの差は 0.2 nV rms 以下。11/9：RAW の出力を動かす組（b3）も最後まで回った。AFE の入力の揺れは b1 の約 2 倍（同相 15.2 mV p-p、差動 16.7 µV p-p）になるが、出力の一定のずれは −0.11 nV、周期ごとの残りは 0.11 nV rms で、符号は 48 フレームとも一致した（図 31、`documentation/figures/gf180/r10_20261109/viz/`）。11/11：9 回目のチップの配線での通しも最後まで回った。有効な 3 サンプルはどれも RTL とビット一致し、7 回目より 0.064 % 大きい。差はすべて AFE の利得の差で、AFE の AVSS の持ち上がりが小さくなって AFE の電流が約 1 % 増えたため。ADC 側は 7 回目と同じだった。11/11：図 31 のデッキの ADC を 10 回目の抽出に替えて、5 本を回し直した（b2 は区切り点の近さで一度止まり、MISO を 0.125 ns ずらして回し直した）。5 本とも 48 フレームの ADC の符号が 7 回目の抽出のときと同じだった。結合の一定のずれは電極換算 0.30 nV で、計算の差（0.27 nV）と同じ大きさ。SPI の読み出しと RAW の出力でも、周期ごとの残りは 0.3 nV rms 以下。図 31 を描き直した。11/13：10 回目の通しも最後まで回った。有効な 3 サンプルはどれも RTL とビット一致し、9 回目との差は +4、−1、−3 LSB（1 本の中の続くサンプルどうしの違いと同じ大きさ）、電源と基準は 9 回目と同じ。11 回目の通しは、12 回目に替えたのでチャンク 4 で止めた。11/13：11 回目と 12 回目のチップの配線で雑音を回し直し、9 回目と 0.001 nVrms 以内で同じ（AFE_IBIAS 3 で typical 5.327 nVrms、モンテカルロ 30 の最悪 5.498 nVrms）。11/15：12 回目の起動のバッチは 50 本のうち 32 本が済み（モンテカルロ 18 本）、9 回目と同じ値（バイアス 0.91〜0.95 ms、解除から 0.1 mV まで 9 µs 以内、出力 −0.099 ± 0.006 mV、電極のオフセットの残差は出力で 0.06 mV 以内で同じ）。電源投入をプロセスの角 4 つ × AVDD ±5 % と電源の立ち上がり 10 µs〜100 ms で回し、20 本とも起動した（起動回路は AVDD 0.61〜1.03 V で切れる。図 37、`powerup_checks.py`）。基板への要求に、AVDD と外の基準を DVDD より先に上げないこと（アナログのパッドの ESD ダイオードが DVDD のリングへ向く）と、解除を電源が上がりきってから数えることを足した。11/16：12 回目の起動のバッチ 50 本と通し（71 時間）が終わった。通しの有効な 3 サンプルはどれも RTL とビット一致し、10 回目より −0.175 %（ADC の基準電圧 +0.057 %、AFE の利得 −0.116 %）。角での AFE の解除（図 38）：どの角でも動き出すが、BOOST_TRIM がリセット値 4/4 のままだと、フルスケールの HD3 が ss −97.6、sf −96.8、fs −106.1 dBc で要求（−111 dBc）に届かない。AVDD −5 % ではどのトリムでも届かない。AVDD を上げるとよくなり、3.40 V と角ごとのトリムで 5 つの角が届く。チップの窓は約 3.394〜3.456 V（図 41）。ADC は ADC の電源 3.39 V でも 3.245 V と同じに動く。ただし、typical を地図の 2/2 にすると、AVDD を上げた分だけ AFE の雑音が増える（3.45 V で 5.73 nVrms、予算で 16.47 bit。BTRIM_P を 4 以上にすれば平ら。図 42）。BTRIM_P 4 でも HD3 は届く：チップの HD3 は、typical 4/2 が 3.40 V で −117.0 dBc（2/2 の −116.8 と同じ）、リセット値の 4/4 が 3.40 V で −115.6、3.45 V で −116.4 dBc（要求に 4.6 dB 以上の余裕）。typical のトリムは 4/2 を勧める（雑音は平らで、予算は 3.45 V でも 16.56 bit。窓の上の端は ff 8/2 の約 3.460 V になる）。電極のオフセットで飽和した最初の電源投入（図 39）：書いても増幅器は出力チョッパの後ろで飽和したまま残るので、ホストは書くたびに AFE_RST を 100 µs 上げる（typical と ss で確かめた。ss では typical の M では残差が大きく、M の探索がもう 1 回要る）。パルスなしでも 300 mV は書いてから 2.82 ms で ADC の範囲に戻るが、11 ms でも出力は図 27 より入力換算約 −31 µV ずれ、入力のコモンモード（0.18 V 低い）と一緒に時定数約 47 ms で抜けていく（11/17、11 ms まで回した。パルスなら 0.5 µs で範囲に入り、2.5 ms 後に +0.7 µV）。ADC は過負荷から自分で戻る（最大 0.22 ms、図 40）。デジタル側（図 31）を 12 回目の通しのチャンク 14 で回し直した（4 本、23 時 44 分に済んだ）：48 フレームの ADC の符号はどの組でも一致し、結合の一定のずれは電極換算 0.02 nV（計算の差 0.25 nV より小さい）、SPI の読み出しは +0.42 nV、RAW の出力は +0.64 nV（周期ごとの残り 0.27 nV rms 以下）で、10 回目と同じ大きさ。リングと電源の揺れも 10 回目と同じ。図は 12 回目の 42 枚がそろい（39 は 11/17 に仕上げた）、11/17 に 43 を足した。11/17：PDK にない係数への余裕（図 43）：DAC1 の素子のばらつきを仮の係数の 8 倍にしても ENOB は変わらない（30 ダイの平均 16.60 bit）。入力抵抗の電圧係数は vc2 が約 300 ppm/V² まで 16.5 bit に届く。オフセット DAC は MIM のばらつき 4 倍まで単調で、運転中の窓の内側。チップを直す必要はない。11/17：同相の除去（CMRR）と電極の不釣り合い（`afe_startup.py` に体の同相と電極のインピーダンスを足し、`cmrr.py` で解析。図 44 は途中の版）。1 kHz で、釣り合った電極では 105.4 dB（チップ自身の分）、ELP に 51 kΩ ∥ 47 nF では 50.7 dB で、ほぼ全部が脚の電流が電極のインピーダンスを流れる分。脚 1 本から見た同相は 18.6 nS ∥ 138.5 pF（Cin を通る分 63.6 pF、入力チョッパのスイッチ 65.2 pF、パッドなど 9.7 pF。コンダクタンスのうち 6.1 nS は ngspice の既定の gmin の見かけ）。朝の見込み（−64 dB）はこの容量を落としていて、50 Hz では 54.3〜54.7 dB（100 mV pk の同相で電極換算 184〜193 µV pk）の見込み。11/18：基準（1 時 45 分に済んだ）を差し引いて当てはめ直しても同じ（105.4 dB、50.7 dB）。解除までは脚 1 本の同相が約 795 pF で、不釣り合いの 47 nF に残る電荷が時定数 2.4 ms で窓に入るので、当てはめに指数を足した。AFE_RST を上げているあいだは、チョッパが動いているとピンの差動が約 5.4 kΩ（Cin のスイッチト・キャパシタ。Cpf の打ち消しが働かない）になり、電極の DC オフセットが電極のコンデンサを充電する。51 kΩ ∥ 47 nF と 300 mV では、11/16 の手順（書くたびに 100 µs）で AFE が書いてから約 12 ms 飽和する見込み。図 39 は電極 100 Ω だったので出なかった。AFE_RST と一緒に CHOP_EN（同じ CONTROL）を下げる手順を、2 時 1 分から回して確かめている（`afe_saturation.py --zp --chop-hold`）。11/18：50 Hz の 2 本も 5 時 40 分ごろ 26 ms まで回った（1 周期）。51 kΩ ∥ 47 nF で 54.2 dB（100 mV pk の同相で電極換算 194 µV pk、フルスケールの 21 %。gmin の見かけを除くと 54.6 dB）、釣り合いで 151 dB で、見込みどおり。出力はシミュレーションのピンの差動と 0.04 % で合い（50 Hz の利得 297.58）、ほぼ全部が電極の側。脚のコンダクタンスのうち 12.2 nS は、Cin を通して見える入力のコモンモードの DC 経路（時定数 47 ms）。1 周期の当てはめでは、47 nF の指数をチップの側（脚の電流、体）にも入れると脚のアドミタンスが最大 30 % 動くので、出力とピンだけに入れた（当てはめを変えても 54.14〜54.26 dB）。CMRR のためにチップを直す必要はない。図 44 を仕上げた。11/18 の朝：DAC で打ち消した電極のオフセットには、解除のあとも約 5.4 kΩ がかかることが分かった（図 27 のランで 10〜300 mV とも 5.36〜5.44 kΩ。Cin のスイッチト・キャパシタで、Cpf は出力に出ている分しか補わない）。電極にオフセット / 5.4 kΩ（30 mV で 5.4 µA、300 mV で 54 µA）の DC 電流が流れ、10/23 の要求（電極 1 本 1 nA 以下）を DAC の 1 段（56 nA）から外れる。電極に抵抗 R_e があると、ピンに届くオフセットは 5.4 kΩ / (5.4 kΩ + R_e) 倍（51 kΩ で 300 → 28.4 mV）。未明の見立て（解除のあとは MΩ、書いてから約 12 ms 飽和）はこの点で誤り。D（電極 100 Ω、CHOP_EN を下げる）は、解除のあと入力のコモンモードがはじめから釣り合いにあり、図 27 より出力が電極換算 2.9 µV 釣り合いに近い。RTL のリセット値は変えないことを勧める。この DC 電流のために今回 rev でチップを直すことはせず、限界として記録する（11/18、朝の勧めに対する返事「go」）。B（51 kΩ ∥ 47 nF、M 983、CHOP_EN を下げる。6 時 21 分に 10 ms まで回った）：解除のときピンは 116 mV で、M 983（295.8 mV）に対して AFE は逆向きに飽和したまま残り、チップがピンを −349 mV へ引く（時定数 0.57 ms、10 ms で −348 mV、電極に 12.7 µA、ADC の入力 −1.80 V）。電極 100 Ω では同じ書き込みで解除と同時に範囲に入る。合わない M を残したまま待たないこと、パルスのあいだもチョッパを動かすことを、手順に書く（図 45、途中の版）。E、F（M 94、パルス 1 ms と 100 µs。8 時 47 分から回し直し、11 時 58 分に 10 ms まで回った）は、どちらも増幅器の入力 +5.0 mV（ADC の入力 +1.0 V）に落ち着き、範囲に戻らなかった。パルスの長さは行き着く先を変えず、行き着く先は M で決まる。M 94 は、ピンの単純な平均（28.4 mV）に合わせたもので、増幅器が取り込むチョッパの切り替えの直前の値（約 1.3 mV 高い）に合っていなかった。読み（見立て）：解除のあとは DAC で打ち消した分だけが電流を流す（M × 0.301 mV / 5.56 kΩ）ので、電極の電圧降下が M で動き、M の 1 段は増幅器の入力で 0.301 mV × (1 + R_e / 5.56 kΩ)、51 kΩ で約 3 mV（ADC の範囲 ±1.63 mV とほぼ同じ）。最良の M でも最大 ±1.5 mV が残り、約 55 kΩ（R_sc 5.67 kΩ）を超えると範囲に入らないオフセットが出る。原因は DAC で打ち消したオフセットの電流と同じ。G（M 98、99、100、パルス 1 ms。15 時 42〜46 分に 10 ms まで回った）で確かめた：範囲に入るのは M 100 だけで、ホストの読み（ADC の入力 / 297.5）は M 100 で −0.79 mV、M 99 で +1.63 mV（範囲の端）、M 98 で +2.55 mV、M 94 で +3.33 mV に落ち着く。範囲の中ではチップは電極から見て電流源（M × 0.301 mV / 5.67 kΩ。電極は 51 kΩ × 47 nF = 2.4 ms で動く）で、1 段は 3.0 mV（M 99 → 100 は範囲の端の圧縮で 2.42 mV）。範囲の外では Cpf が残差を補いきれず、チップが電極を引き戻す（時定数 0.35〜0.40 ms）。電極の抵抗の変化への感度は電流そのもの（5.3 µV/Ω、範囲の中心から 0.3 kΩ で範囲を出る）で、朝に書いた 0.50 µV/Ω（チップを抵抗とみた値）の約 10 倍だった。アクティブ電極なら問題は出ない。チップを直すかを、夕方にユーザーに判断をあおいでいる。A は B から読めるので回し直さない。11/18 の構成決定で、AVDD はダイごとに合わせると決めた（ユーザーの判断。トリムも試験でダイごとに、F2、F4）。11/18 の夜：同相の釣り合いの値を帯域内（チップの CIC が見る値、`cmrr.py` の inband）で測り直した。1 kHz の 105.4 dB（0.52 µV）は、チョッパの間で起きる変換（出力のチョッパで ADC の入力に矩形波として出る。同相 97.5 mV pk で 104.7 mV pk、50 Hz では 99.95 mV pk で 7.1 mV）を、チョッパ周期の平均が折り返した見かけで、帯域内では 148 dB（50 Hz は 147 dB）。不釣り合いの値は 0.13 % 以内で同じで、結論は変わらない。図 44 を直した。実際のレギュレータの PSRR は、21 時 44 分から AVDD と DVDD のリップル（電極は釣り合いと 51 kΩ ∥ 47 nF）を回している（`afe_startup.py --rip`、`psrr.py`）。11/19：PSRR の typical（図 46）。低い周波数のリップルはチョッパで除かれる（釣り合いで AVDD の 1 kHz 139 dB、DVDD 197 dB）。AVDD の 128 kHz の奇数倍のそばは、チョッパの間の変換（増幅器の出力に 1.10 V/V）が出力のチョッパで帯域に戻り、52.4 dB（384 kHz のそばは 61.2 dB、偶数倍は 132 dB）。51 kΩ ∥ 47 nF では帯域内の AVDD が 50 Hz で 62.5 dB（脚 1 本の AVDD への 59 pF：入力スイッチのウェル 24、Cin を通る分 24、残り 11）。基板への要求を F2 の (4) に書いた。モンテカルロ 8 と MOS の角 4 を 1 時 8 分〜7 時 57 分に回した。8 ダイは 128 kHz のそばで 52.1〜52.8 dB、チョッパの間の変換 1.05〜1.13 V/V で typical と同じ（ミスマッチではない）。角は ff が 51.5 dB（1.23 V/V）、ss が 53.2 dB（0.99 V/V）。F2 の (4) を ff から約 40 nV/√Hz に決め直した。変換の出どころ：抽出では INN が INP より AVDD に 1.96 pF、VBP に 0.53 pF、BLP に 0.16 pF 多い。この容量を INP にそろえた診断（A：AVDD、B：VBP と BLP も。設計の変更ではない）で、変換は 1.10 → 0.241 → 0.058 V/V、128 kHz のそばは 52.4 → 65.6 → 78.0 dB（図 47）。変換の約 95 % は INN の余分な配線の容量から来る。場所は増幅器のコアの上で、INN は Metal3 と Metal4、INP は Metal5 を通る（INN の Metal4 が AVDD の n-well の上に 97,000 µm²、VBP のゲートの上に 38,000 µm²）。角で動くのは、PDK の角が MIM の角（ff 0.9 倍、ss 1.1 倍）も変え、変換が MIM の Cf に反比例するため（AFE の利得は 1 % 以内）。ELP に 51 kΩ ∥ 47 nF でそろえた C（12 時 34 分）でも、128 kHz のそばは 47.5 → 74.6 dB、384 kHz のそばは 53.6 → 82.5 dB、許せる雑音は 26 → 605 nV/√Hz（1 kHz の 58.1 dB は、ピンで脚の不釣り合いから入る分なので変わらない）。**11/19 の 13 時に、ユーザーが r13 で INN の配線を直すと決めた。** 直し方を選ぶため、INN の余分を INP に足した診断 D（INP から AVDD に +1.96 pF、VBP に +0.53 pF、BLP に +0.16 pF）を 13 時 5 分からターミナルのタブで実行し、17 時 45 分に完了。128 kHz 近傍 77.7 dB、変換 0.060 V/V で B（78.0 dB、0.058 V/V）と同等であり、変換は加算点間の容量の差のみで決まることを確認（r13 の修正方針と整合。図 47 に D を追加）。BLP は PMOS のブースタのバイアス（AVDD の側）で、INP の相手は同じ BLP（前は BLN と書いていたが、どちらも 0 fF で A〜C は同じ）。**11/19 夜：r13 の PSRR の最初の 4 本（typical の釣り合いと ELP に 51 kΩ ∥ 47 nF、ff、ss。afe_top を r13 の抽出に置換、基準のランなしで単独の当てはめ）。** 128 kHz 近傍は typical 68.7 dB（r12 52.4）、ff 67.7 dB（51.5）、ss 69.3 dB（53.2）、51 kΩ ∥ 47 nF で 64.4 dB（47.5）。チョッパ間の変換は 0.169 V/V（r12 1.10）で、残る差 256 fF と診断 B・D の残り（0.058 V/V）からの見込みと整合。128 kHz と 384 kHz の近傍に許せる AVDD の雑音は ff で約 260 nV/√Hz（r12 約 40）。帯域内（51 kΩ ∥ 47 nF で 50 Hz 62.4 dB）は電極の不釣り合いで決まり変化なし。11/19 21 時 49 分：モンテカルロ 1〜4 は 128 kHz 近傍 68.4〜69.3 dB、384 kHz 近傍 77.2〜78.1 dB、変換 0.157〜0.174 V/V（r12 の 8 ダイは 52.1〜52.8 dB）でダイ依存性なし、許せる雑音の最小は ff のまま（277 nV/√Hz）。モンテカルロ 5〜8 と sf、fs は実行中（図 46（r13、途中の版、12 本中 6 本）） **11/20 未明：r13 の PSRR の全 14 本が完走（図 46（r13）を最終の版に）。** モンテカルロ 1〜8 で 128 kHz 近傍 68.4〜69.3 dB、384 kHz 近傍 77.2〜78.1 dB、MOS の角は ff 67.7 dB〜ss 69.3 dB（sf、fs 68.6 dB）。12 本の全てで r12 より 16 dB 以上改善。許せる AVDD の雑音は 128／384 kHz 近傍で約 277 nV/√Hz（ff、奇数次を含め 263）、51 kΩ ∥ 47 nF で約 181 nV/√Hz。F2 の (4) は発注するチップに合わせて決める。 | 11/19 | ▶ |
 
 ## E. レイアウトと統合
 

diff --git a/first_tapeout_eeg/documentation/weekly_reports/wr_2026-1120-1126.md b/first_tapeout_eeg/documentation/weekly_reports/wr_2026-1120-1126.md
@@ -68,9 +68,17 @@
 - tb_top の max_ss の不一致：Icarus は SDF の経路の遅延を適用し、タイミングの検査は行わない。試験台の TH のモデル（e2 の前後 ±0.5 周期のみ有効）が、ADC のデジタル部の 2 サイクルの TH の経路（SDC では入力遅延 15 ns、2 サイクルのマルチサイクル）より狭いことによる。設計の誤りではない。試験台の TH のモデルの修正は別の作業として提案済み。
 - tt と ff の tb_top、通しの試験の区間は実行中。
 
+## 13 回目のチップ（r13）の PSRR（11/20 未明、図 46（r13））
+
+- 11/19 から実行していた全 14 本（typical の釣り合いと ELP に 51 kΩ ∥ 47 nF、モンテカルロ 1〜8、MOS の角 4 つ）が完走し、図 46（r13）を最終の版とした。
+- 128 kHz 近傍：モンテカルロ 68.4〜69.3 dB、角 67.7（ff）〜69.3 dB（ss）。384 kHz 近傍：76.5〜78.1 dB。12 本の全てで r12 より 16 dB 以上改善。ダイによる差は ±0.5 dB で、配置で決まる（ミスマッチではない）。
+- 基板の AVDD に許せる雑音（128／384 kHz 近傍）：釣り合いで約 277 nV/√Hz（ff、奇数次を含め 263）、51 kΩ ∥ 47 nF で約 181 nV/√Hz（r12 は約 40、約 22 nV/√Hz）。帯域内は 232 nV/√Hz で r12 と同じ。
+
+![r13 の PSRR（図 46）](../figures/gf180/r13_20261119/viz/gf180_viz_r13_46_psrr.png)
+
 ## 現時点の判断
 
-- 発注候補は r12（変更なし）。r13 は PSRR の評価の完了待ち。
+- 発注候補は r12（変更なし）。r13 は PSRR の評価がそろった（128 kHz 近傍で 16 dB 以上の改善、基板の要求が約 6.5 倍緩和）。発注の候補を r13 に替えるかは判断を仰ぐ。
 - デジタル制御：第 1 回の監査の 20 件を修正。第 2 回の監査を実施中で、新たな問題が出なくなるまで続ける。
 - 日程の変更なし：12/9 スロット購入期限、12/16 GDS 提出。
 
